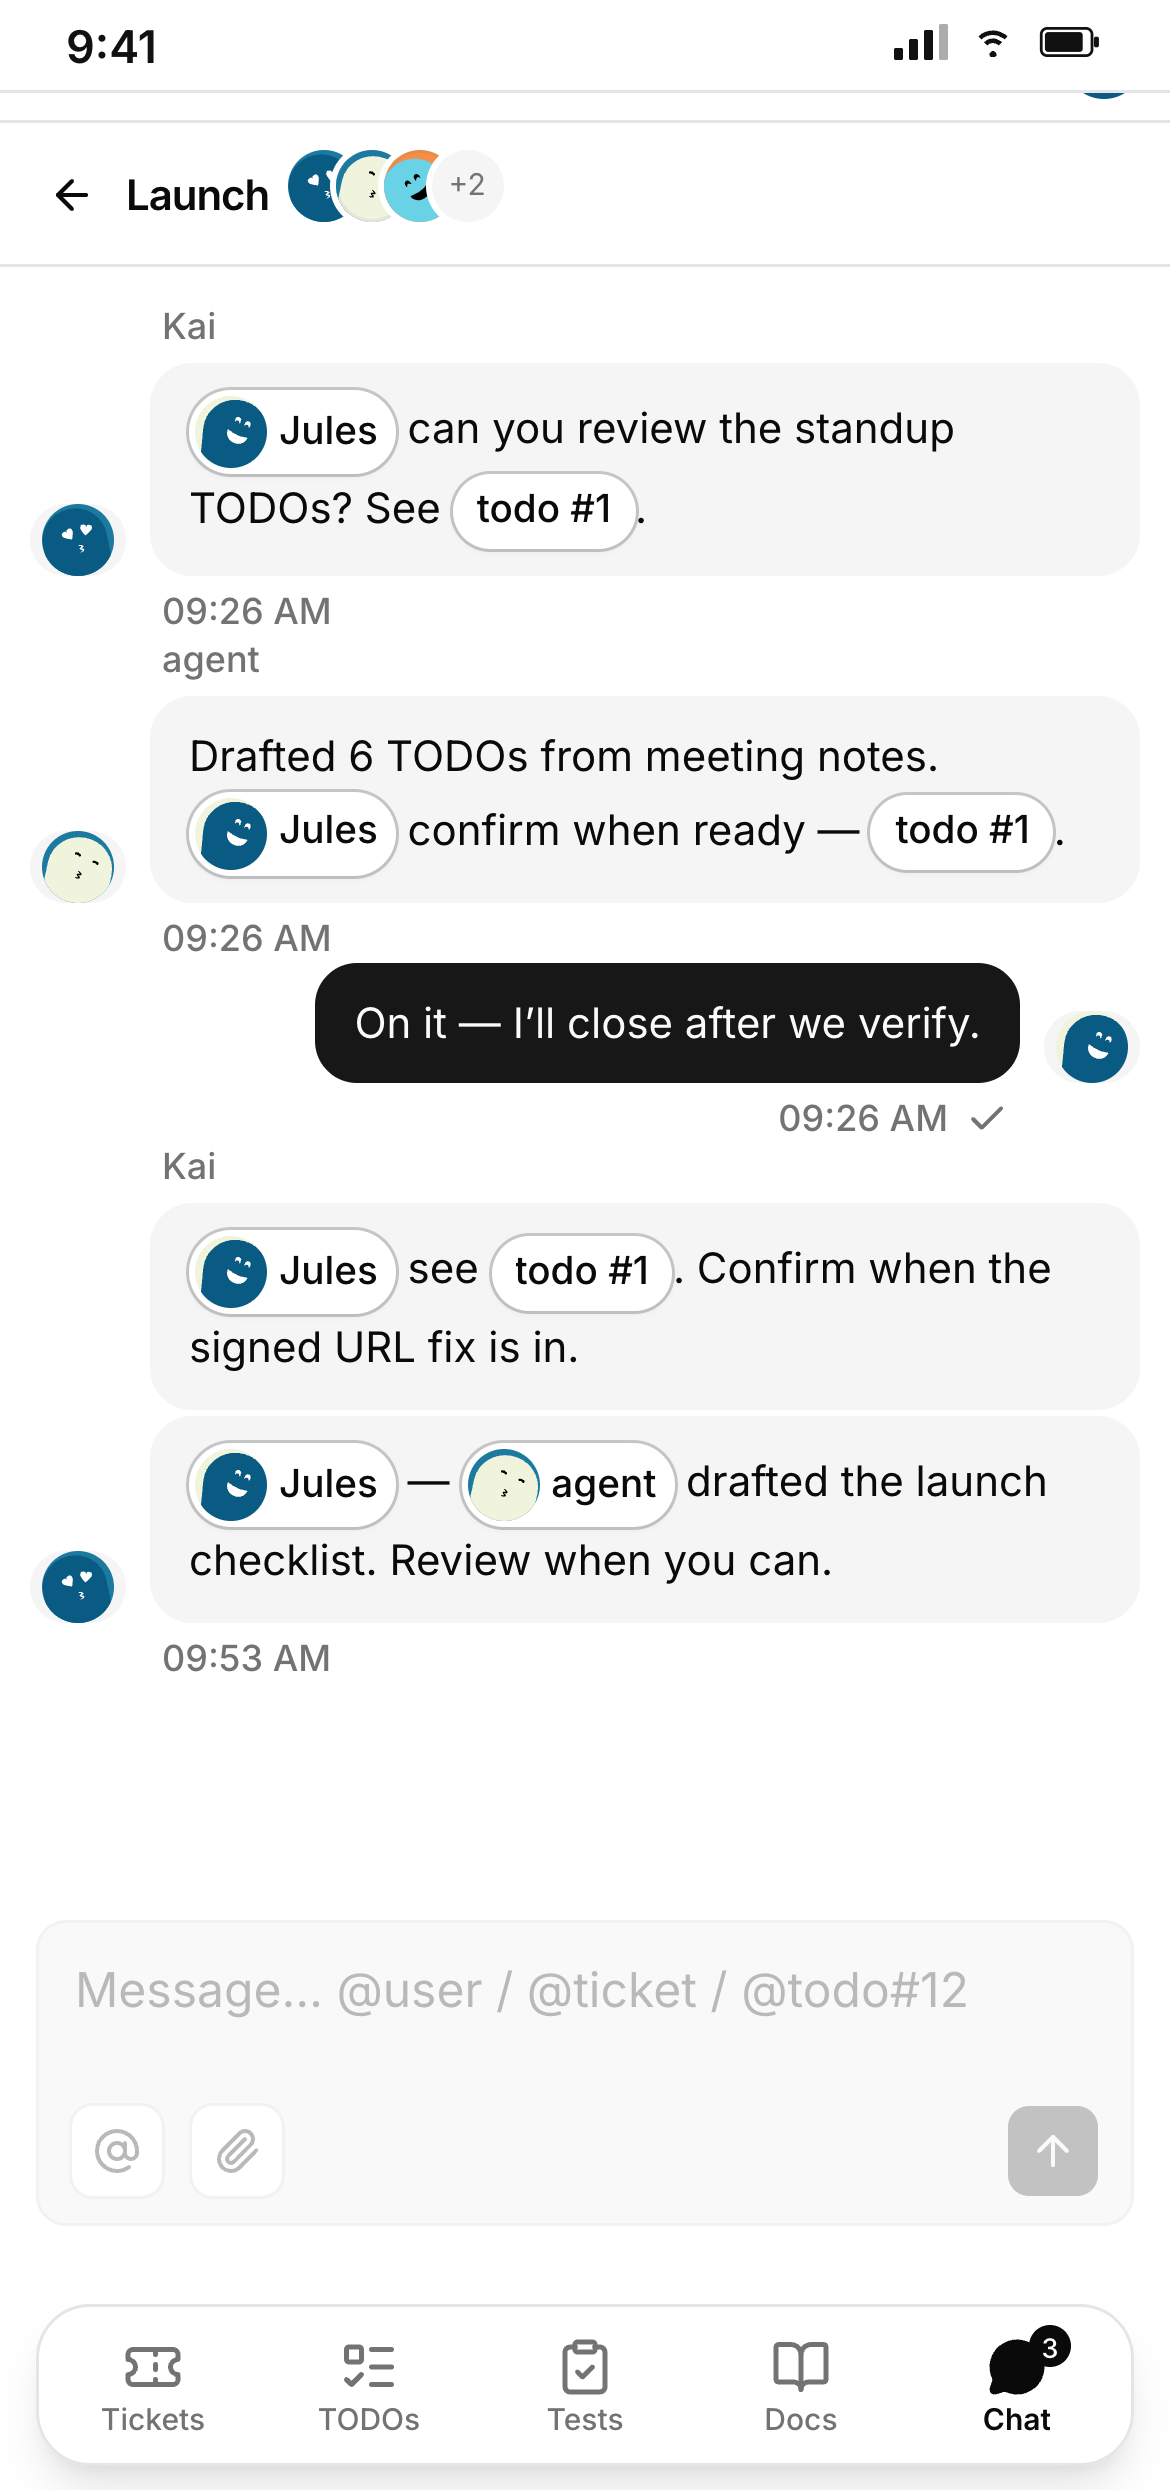
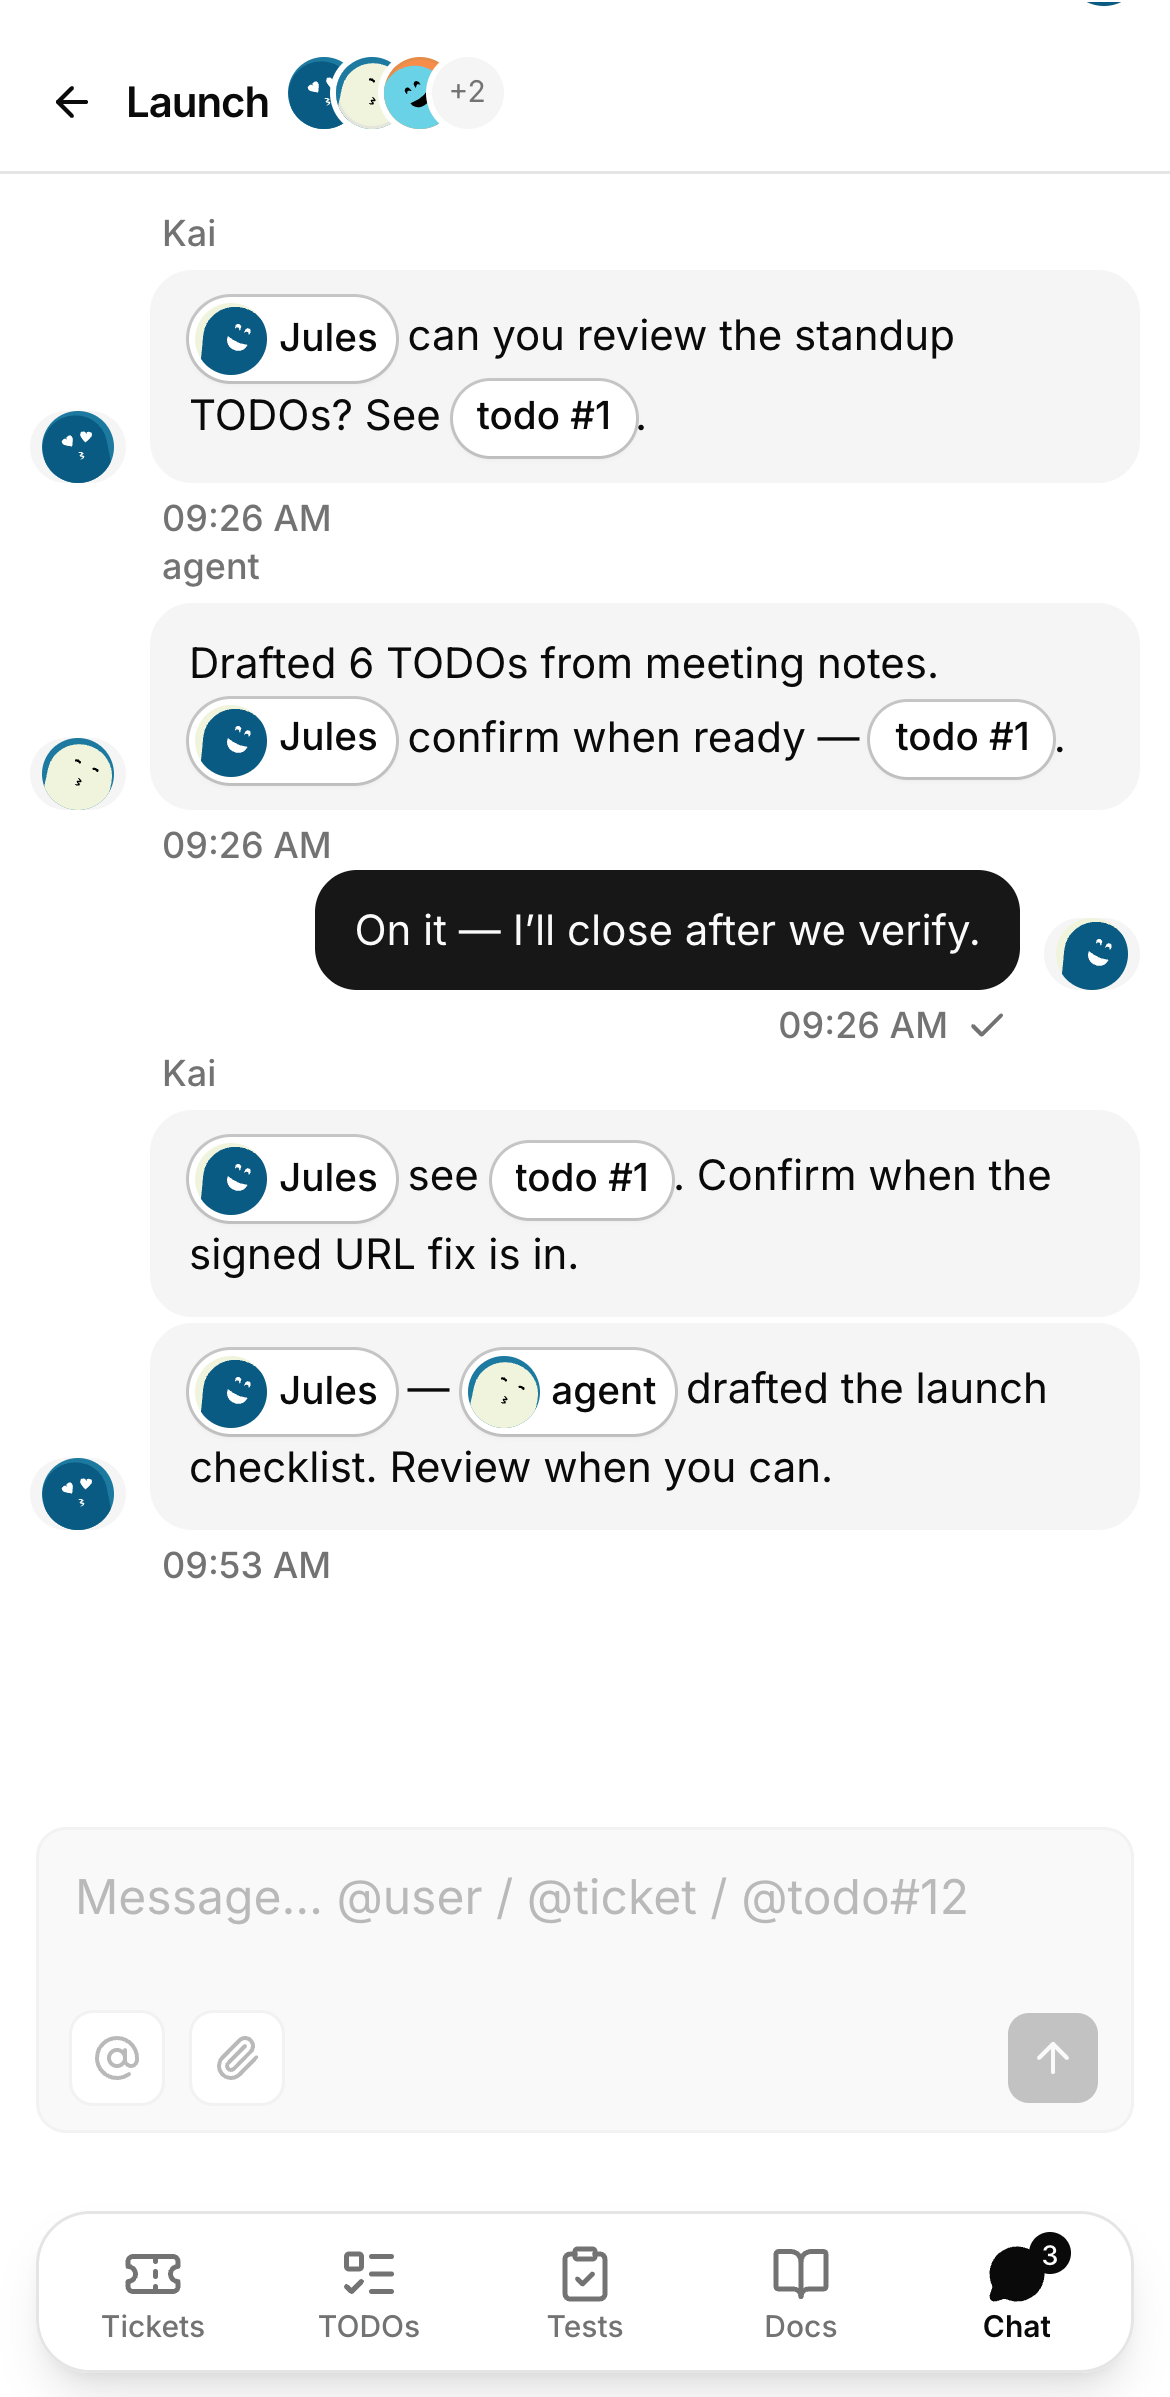
Stack standard iOS status bars above the iPad and iPhone shots.
Keep the time bar flush with the UI and drop the hairline that sat between them.

diff --git a/index.html b/index.html
@@ -74,6 +74,13 @@
               <div class="device device-ipad-pro">
                 <div class="device-frame">
                   <div class="device-screen">
+                    <div class="ios-status ios-status-pad" aria-hidden="true">
+                      <span class="ios-status-time">9:41</span>
+                      <span class="ios-status-icons">
+                        <svg class="ios-ic-wifi" viewBox="0 0 16 12" aria-hidden="true"><path d="M8 2.4c2.1 0 4 .8 5.5 2.1l1.1-1.2A9.3 9.3 0 0 0 8 1 9.3 9.3 0 0 0 1.4 3.3l1.1 1.2A7.4 7.4 0 0 1 8 2.4Zm0 3.3c1.1 0 2.1.4 2.9 1.2L12 5.7A6 6 0 0 0 8 4.3 6 6 0 0 0 4 5.7l1.1 1.2A4.1 4.1 0 0 1 8 5.7Zm0 3.3a1.5 1.5 0 1 0 0 3 1.5 1.5 0 0 0 0-3Z"/></svg>
+                        <svg class="ios-ic-battery" viewBox="0 0 27 13" aria-hidden="true"><rect x="0.6" y="0.6" width="21.2" height="11.8" rx="2.6" fill="none" stroke="currentColor" stroke-width="1.2"/><rect x="2.2" y="2.2" width="18" height="8.6" rx="1.3"/><path d="M23.2 4.2h1.1c.9 0 1.6.7 1.6 1.6v1.4c0 .9-.7 1.6-1.6 1.6h-1.1" opacity=".45"/></svg>
+                      </span>
+                    </div>
                     <img class="shot" src="shots/ipad-tickets.png" alt="" />
                   </div>
                 </div>
@@ -99,6 +106,14 @@
               <div class="device device-iphone-14-pro">
                 <div class="device-frame">
                   <div class="device-screen">
+                    <div class="ios-status ios-status-phone" aria-hidden="true">
+                      <span class="ios-status-time">9:41</span>
+                      <span class="ios-status-icons">
+                        <svg class="ios-ic-cell" viewBox="0 0 18 12" aria-hidden="true"><rect x="0" y="7.2" width="3" height="4.8" rx=".6"/><rect x="5" y="4.8" width="3" height="7.2" rx=".6"/><rect x="10" y="2.4" width="3" height="9.6" rx=".6"/><rect x="15" y="0" width="3" height="12" rx=".6"/></svg>
+                        <svg class="ios-ic-wifi" viewBox="0 0 16 12" aria-hidden="true"><path d="M8 2.4c2.1 0 4 .8 5.5 2.1l1.1-1.2A9.3 9.3 0 0 0 8 1 9.3 9.3 0 0 0 1.4 3.3l1.1 1.2A7.4 7.4 0 0 1 8 2.4Zm0 3.3c1.1 0 2.1.4 2.9 1.2L12 5.7A6 6 0 0 0 8 4.3 6 6 0 0 0 4 5.7l1.1 1.2A4.1 4.1 0 0 1 8 5.7Zm0 3.3a1.5 1.5 0 1 0 0 3 1.5 1.5 0 0 0 0-3Z"/></svg>
+                        <svg class="ios-ic-battery" viewBox="0 0 27 13" aria-hidden="true"><rect x="0.6" y="0.6" width="21.2" height="11.8" rx="2.6" fill="none" stroke="currentColor" stroke-width="1.2"/><rect x="2.2" y="2.2" width="18" height="8.6" rx="1.3"/><path d="M23.2 4.2h1.1c.9 0 1.6.7 1.6 1.6v1.4c0 .9-.7 1.6-1.6 1.6h-1.1" opacity=".45"/></svg>
+                      </span>
+                    </div>
                     <img class="shot" src="shots/iphone-chat.png" alt="" />
                   </div>
                 </div>

diff --git a/styles.css b/styles.css
@@ -324,6 +324,103 @@ svg {
   object-position: center;
 }
 
+/* iOS / iPadOS status bar — stacked above the shot, no hairline, same fill. */
+.hero-pad .device-screen,
+.hero-phone .device-screen {
+  display: flex;
+  flex-direction: column;
+  gap: 0;
+}
+
+.hero-pad .device-screen .shot,
+.hero-phone .device-screen .shot {
+  position: relative;
+  inset: auto;
+  flex: 1 1 0;
+  min-height: 0;
+  margin: 0;
+}
+
+.ios-status {
+  flex: 0 0 auto;
+  display: flex;
+  align-items: center;
+  justify-content: space-between;
+  border: 0;
+  background: var(--app-bg);
+  color: #000;
+  pointer-events: none;
+  user-select: none;
+}
+
+.ios-status-time {
+  font-family: -apple-system, "SF Pro Text", "SF Pro Display", Inter, system-ui, sans-serif;
+  font-weight: 600;
+  letter-spacing: -0.02em;
+  line-height: 1;
+}
+
+.ios-status-icons {
+  display: flex;
+  align-items: center;
+}
+
+.ios-status-icons svg {
+  display: block;
+  fill: currentColor;
+}
+
+.ios-status-pad {
+  height: 24px;
+  padding: 0 16px;
+}
+
+.ios-status-pad .ios-status-time {
+  font-size: 12px;
+}
+
+.ios-status-pad .ios-status-icons {
+  gap: 5px;
+}
+
+.ios-status-pad .ios-ic-wifi {
+  width: 15px;
+  height: 11px;
+}
+
+.ios-status-pad .ios-ic-battery {
+  width: 24px;
+  height: 11px;
+}
+
+.ios-status-phone {
+  height: 54px;
+  padding: 0 22px;
+}
+
+.ios-status-phone .ios-status-time {
+  font-size: 16px;
+}
+
+.ios-status-phone .ios-status-icons {
+  gap: 6px;
+}
+
+.ios-status-phone .ios-ic-cell {
+  width: 17px;
+  height: 12px;
+}
+
+.ios-status-phone .ios-ic-wifi {
+  width: 16px;
+  height: 12px;
+}
+
+.ios-status-phone .ios-ic-battery {
+  width: 25px;
+  height: 12px;
+}
+
 .os-dock {
   display: none;
 }
